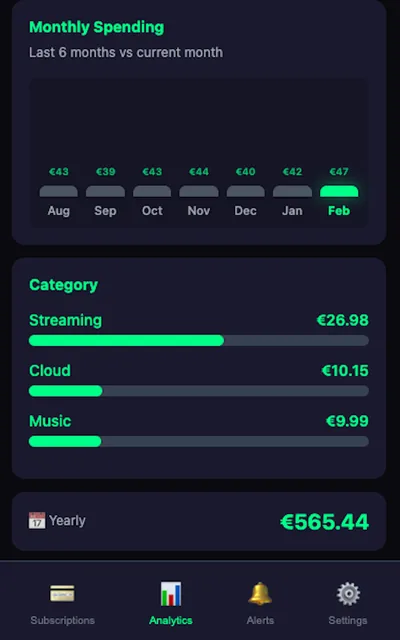
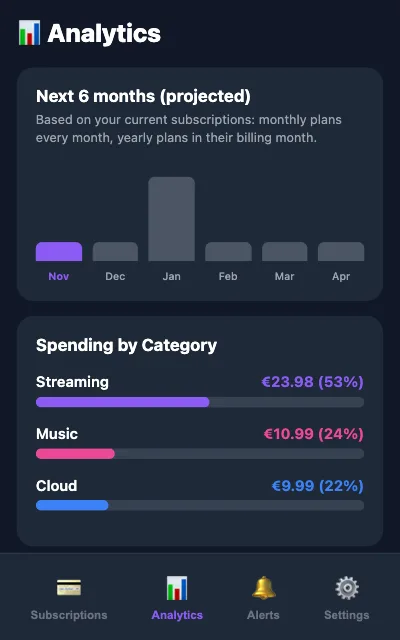
Update analytics screenshot to 3.3.0 (projected chart)

diff --git a/index.html b/index.html
@@ -710,7 +710,7 @@
               <div class="screenshot-window-body">
                 <picture>
                   <source type="image/webp" srcset="screenshots/analytics-400.webp 400w, screenshots/analytics.webp 800w" sizes="(max-width: 768px) 45vw, (max-width: 1024px) 30vw, 220px">
-                  <img src="screenshots/analytics.png" width="800" height="1280" loading="lazy" decoding="async" alt="Analytics view with a six-month spending chart, spending by category and the yearly total" class="screenshot-img">
+                  <img src="screenshots/analytics.png" width="800" height="1280" loading="lazy" decoding="async" alt="Analytics view with a projected spending chart for the next six months and spending by category" class="screenshot-img">
                 </picture>
               </div>
             </div>
